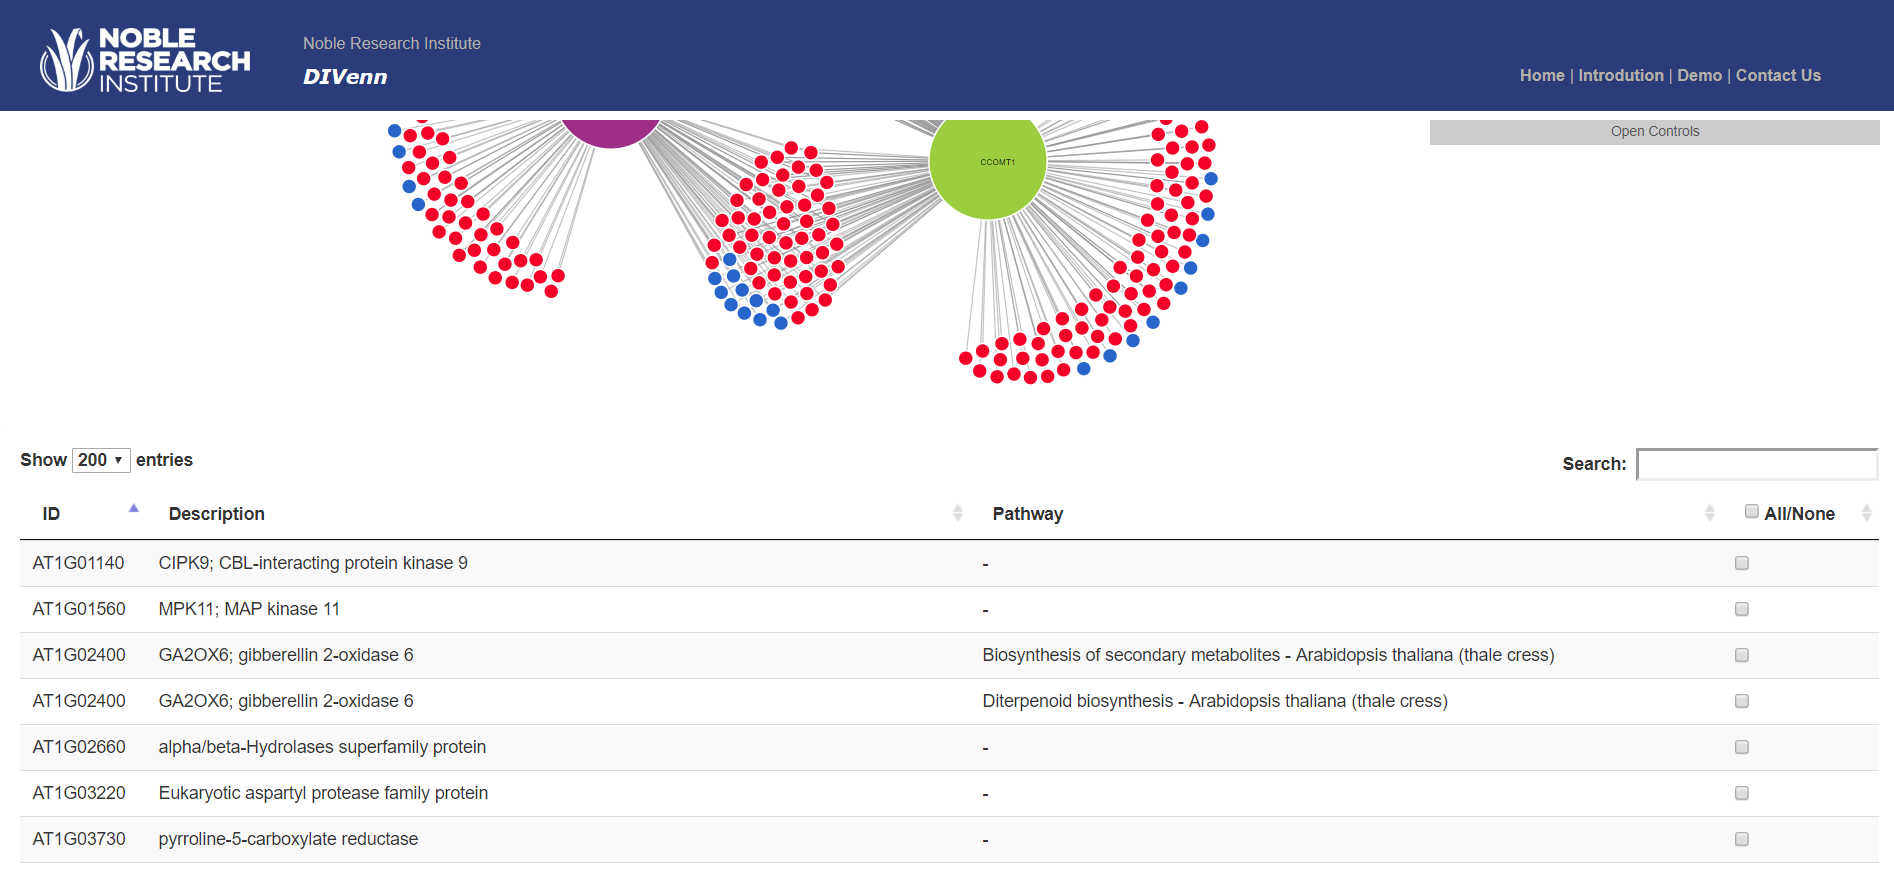
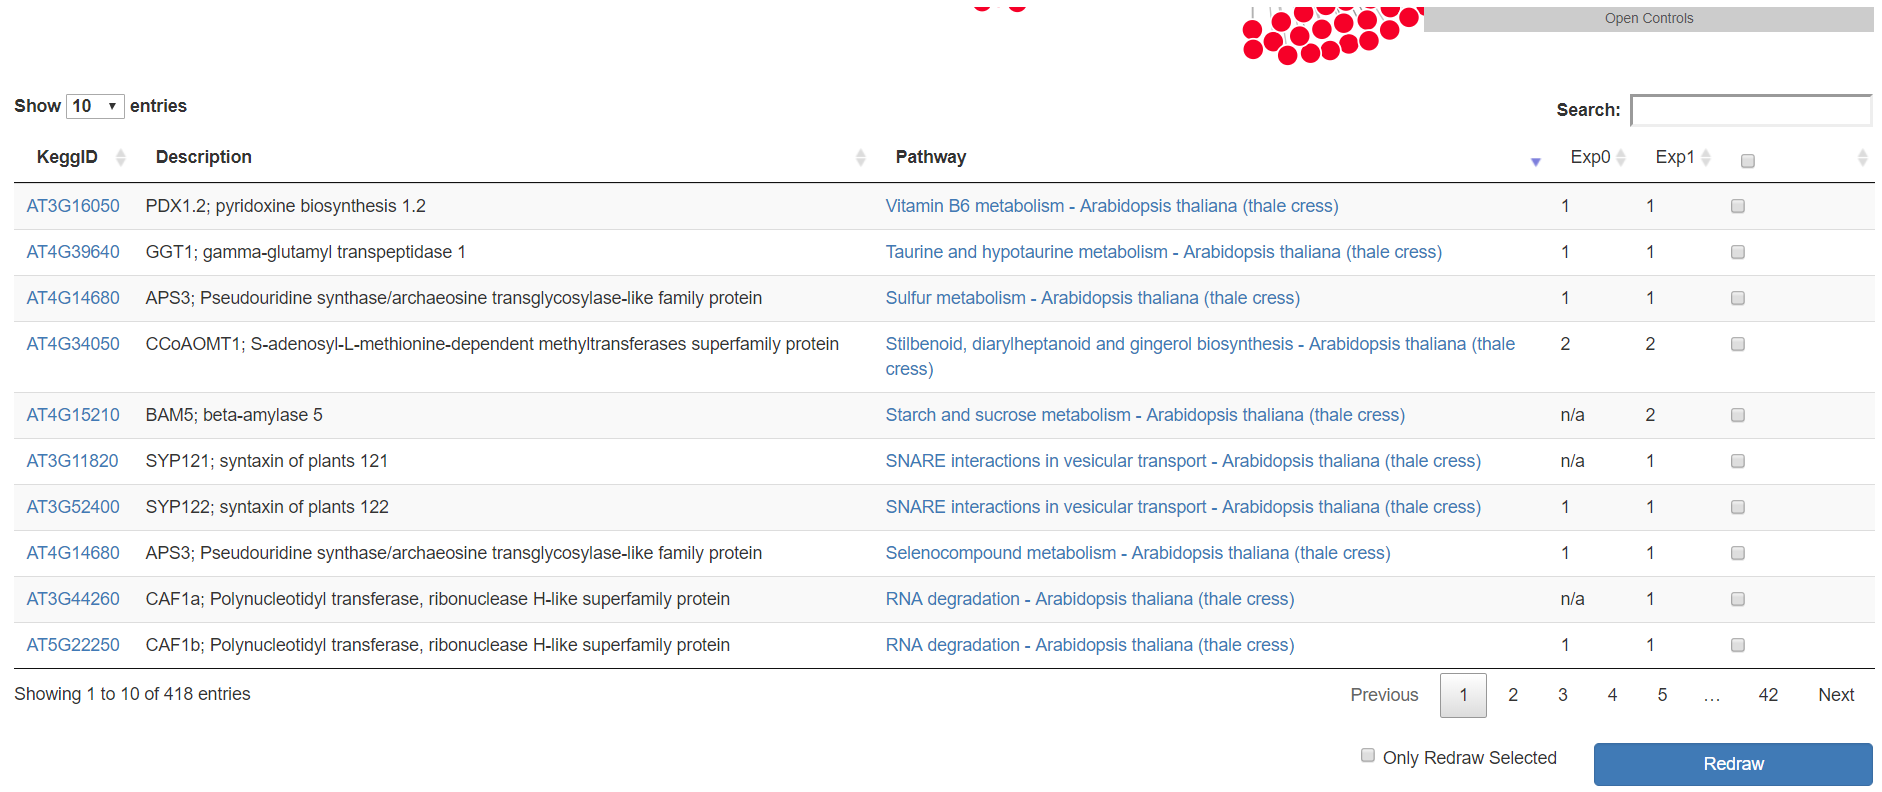
update tutorial

diff --git a/README.md b/README.md
@@ -75,16 +75,22 @@ You can hide or show node labels.
 You can change the color of all parent/experiment nodes in GUI (See Figure 2 xx).
 
 #### Save
-Graph can be saved as SVG image file via ‘Save as SVG’ function, SVG file will be downloaded in your local computer. This SVG file can be saved as high-resolution image via ‘SVG to PNG’ function. 
+Graph can be saved as SVG image file via ‘Save as SVG’ function, SVG file will be downloaded in your local computer. This SVG file can be saved as high-resolution image via ‘SVG to PNG’ function.
 
 #### Show pathway detail
-You can show all gene-associated pathways by click this button.
+You can show all gene-associated pathways by click this button and get the pathway informative table (See Figure 5.1).
+All headline is sortable, the table is also searchable using key words of interest. If users need to sort gene list based on the pathway name, they can click on the headline of pathway column. If users need to multiple select genes from the same pathway after sorting the genes based on the same pathway, they can click the first checkbox and press shift keyboard to click the last checkbox, and redraw the selected genes to different shapes by clicking the “Redraw” button at the end of the table, or subset the genes into another new graph by click the “Only Redraw Selected” checkbox and “Redraw” button.
+ 
+
  
 ![Pathway Example](./image/tutorial/pathwayTable.PNG)
-_**Figure 4.1** Pathway details of all associated genes in the force-directed graph._
+_**Figure 5.1** Pathway details of all associated genes in the force-directed graph._
 
 #### Show gene ontology detail
-You can show all gene-associated gene ontologies by click this button.
+You can show all gene-associated gene ontologies by click this button and get the gene ontology informative table (See Figure 5.2).
+All headline is sortable, the table is also searchable using key words of interest. If users need to sort gene list based on the gene ontology name, they can click on the headline of pathway column. If users need to multiple select genes from the same pathway after sorting the genes based on the same gene ontology, they can click the first checkbox and press shift keyboard to click the last checkbox, and redraw the selected genes to different shapes by clicking the “Redraw” button at the end of the table, or subset the genes into another new graph by click the “Only Redraw Selected” checkbox and “Redraw” button.
 
+![Gene Ontology Details](./image/tutorial/geneOntologyDetails.png)
+_**Figure 5.2** Gene ontology details of all associated genes in the force-directed graph._
 
 
